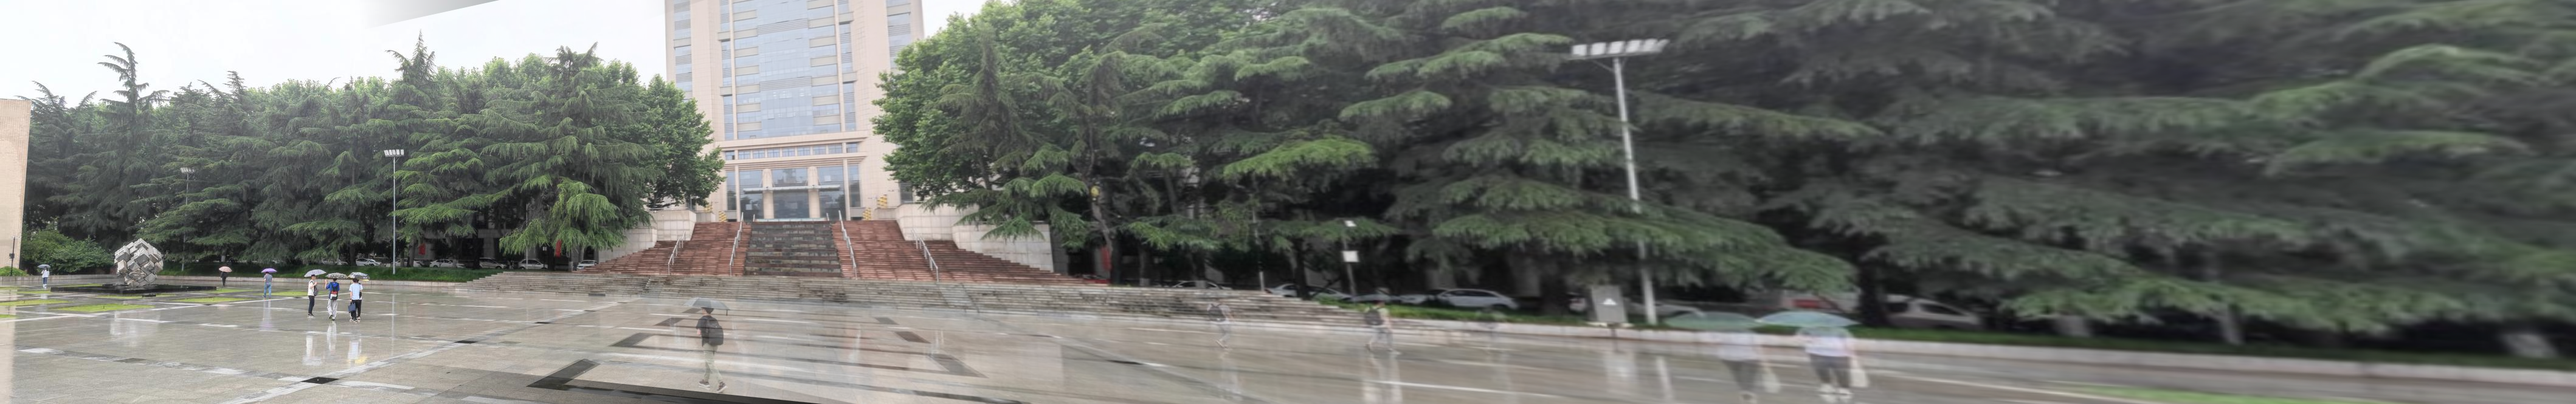
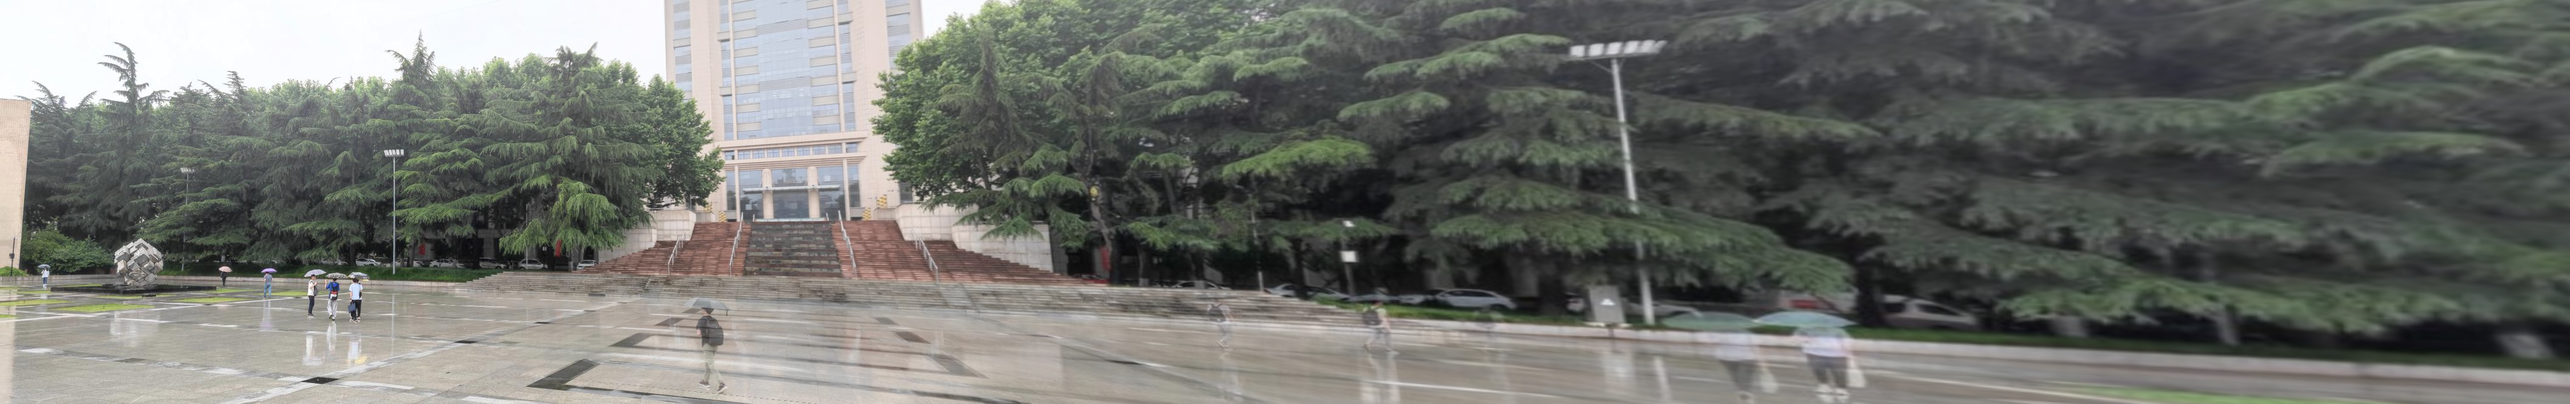
fix strange black thing by mask

diff --git a/sift.py b/sift.py
@@ -7,7 +7,7 @@ import datetime
 
 # import matplotlib
 # matplotlib.use('TkAgg')
-
+#imgtime = 1
 
 def merge_images(img1, img2):
     # 初始化SIFT检测子
@@ -26,9 +26,11 @@ def merge_images(img1, img2):
                                            flags=cv.DRAW_MATCHES_FLAGS_DRAW_RICH_KEYPOINTS)
     img2_sift_keypoints = cv.drawKeypoints(img2, kp2, img2_sift_keypoints,
                                            flags=cv.DRAW_MATCHES_FLAGS_DRAW_RICH_KEYPOINTS)
-    # plt.imshow(img1_sift_keypoints)
-    # plt.imshow(img2_sift_keypoints)
-    # plt.show()
+    #plt.subplot(211)
+    #plt.imshow(img1_sift_keypoints)
+    #plt.subplot(212)
+    #plt.imshow(img2_sift_keypoints)
+    #plt.show()
 
     # BFMatcher 使用默认参数进行匹配
 
@@ -108,12 +110,24 @@ def merge_images(img1, img2):
 
     # 对右边的图片进行变换，得到变换后的图像
     img_out = cv.warpPerspective(img2, H, (x_out, y_out))
+    # 获取变换后图像的所占部分
+    mask = np.zeros((img2.shape[0], img2.shape[1]), np.uint8)  
+    mask.fill(1)
+    #print(mask.shape)
+    img_out_mask = cv.warpPerspective(mask, H, (x_out, y_out))
+    # img_out_mask 与 img_out 大小相同（单通道），0部分为padding，1部分为图像位置
+    #global imgtime
+    #cv2.imwrite('./imgmid' + str(imgtime) + '.png', img_out)
+    #cv2.imwrite('./imgmask' + str(imgtime) + '.png', img_out_mask)
+    #imgtime += 1
     # return img_out
     # 将变换后的图片和左边的图片拼接
     for i in range(img_out.shape[0]):
         x_temple = x1 + (x2 - x1) / (y2 - y1) * (i - y1)
+        #print('xtemple:', x_temple)
         for j in range(img_out.shape[1]):
-            if j < x_temple:
+            #if j < x_temple:
+            if img_out_mask[i, j] == 0: # 不在mask里，用img1
                 if i < img1.shape[0] - 1 and j < img1.shape[1] - 1:
                     img_out[i, j] = img1[i, j]
                 else:
@@ -133,9 +147,9 @@ def merge_images(img1, img2):
 k = 4
 # 读入图像
 img = []
-img.append(cv.imread("/Users/dy/PycharmProjects/cv_exp/sift/image/1_resize.jpg"))
+img.append(cv.imread("./image/1_resize.jpg"))
 for i in range(1, k + 1):
-    img.append(cv.imread("/Users/dy/PycharmProjects/cv_exp/sift/image/" + str(i) + "_resize.jpg"))
+    img.append(cv.imread("./image/" + str(i) + "_resize.jpg"))
     print(img[i])
 
 
@@ -154,4 +168,4 @@ img = merge(1,4)
 
 endtime = datetime.datetime.now()
 print((endtime - starttime).seconds)
-cv.imwrite('/Users/dy/PycharmProjects/cv_exp/sift/image/result.png', img)
+cv.imwrite('./image/result.png', img)
